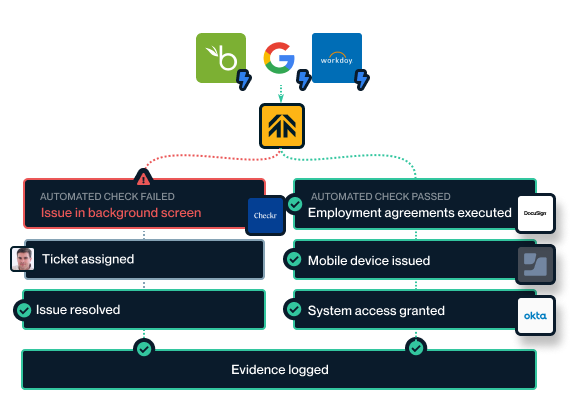
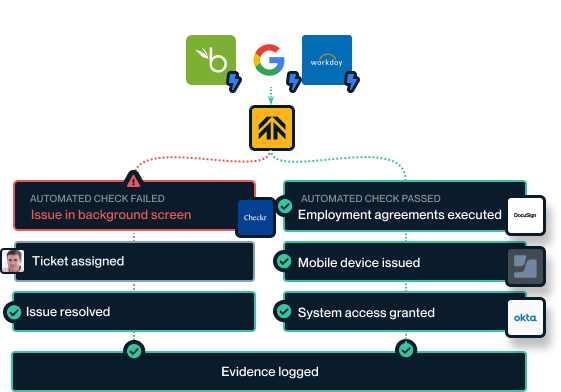
Update integrate, automate, act sections

diff --git a/src/components/comply/Automate.js b/src/components/comply/Automate.js
@@ -1,4 +1,5 @@
 import React from 'react';
+import classNames from 'classnames';
 import acrIllustration from '../../images/comply/automate-acr-illustration.png';
 import mdmIllustration from '../../images/comply/automate-mdm-illustration.png';
 import ssdIllustration from '../../images/comply/automate-ssd-illustration.png';
@@ -58,6 +59,13 @@ class Automate extends React.Component {
                 <span className={styles.circle} />
               </button>
             </div>
+
+            <div className={classNames(styles.cta, styles.desktop)}>
+              <SignupArrowButton
+                text="Get a demo and learn more"
+                product="comply"
+              />
+            </div>
           </div>
 
           <div className={styles.illustration}>
@@ -93,7 +101,7 @@ class Automate extends React.Component {
             )}
           </div>
 
-          <div className={styles.cta}>
+          <div className={classNames(styles.cta, styles.mobile)}>
             <SignupArrowButton
               text="Get a demo and learn more"
               product="comply"

diff --git a/src/components/comply/Act.js b/src/components/comply/Act.js
@@ -1,4 +1,5 @@
 import React from 'react';
+import classNames from 'classnames';
 import metricsIllustration from '../../images/comply/act-metrics-illustration.png';
 import onboardingIllustration from '../../images/comply/act-onboarding-illustration.png';
 import { Grid } from '../grid/Grid';
@@ -48,6 +49,13 @@ class Act extends React.Component {
                 <span className={styles.circle} />
               </button>
             </div>
+
+            <div className={classNames(styles.cta, styles.desktop)}>
+              <SignupArrowButton
+                text="Get a demo and learn more"
+                product="comply"
+              />
+            </div>
           </div>
 
           <div className={styles.illustration}>
@@ -68,7 +76,7 @@ class Act extends React.Component {
             )}
           </div>
 
-          <div className={styles.cta}>
+          <div className={classNames(styles.cta, styles.mobile)}>
             <SignupArrowButton
               text="Get a demo and learn more"
               product="comply"

diff --git a/src/components/comply/Integrate.js b/src/components/comply/Integrate.js
@@ -1,4 +1,5 @@
 import React from 'react';
+import classNames from 'classnames';
 import illustration from '../../images/comply/integrate-illustration.png';
 import { Grid } from '../grid/Grid';
 import SignupArrowButton from '../signup/SignupArrowButton';
@@ -18,13 +19,17 @@ export default () => (
           Continuously update your inventory of People, Devices, Assets,
           Vendors, and Data.
         </p>
+
+        <div className={classNames(styles.cta, styles.desktop)}>
+          <SignupArrowButton text="Get a demo and learn more" product="comply" />
+        </div>
       </div>
 
       <div className={styles.illustration}>
         <img src={illustration} alt="" />
       </div>
 
-      <div className={styles.cta}>
+      <div className={classNames(styles.cta, styles.mobile)}>
         <SignupArrowButton text="Get a demo and learn more" product="comply" />
       </div>
     </Grid>

diff --git a/src/components/comply/Automate.module.css b/src/components/comply/Automate.module.css
@@ -58,15 +58,24 @@
   text-align: center;
 }
 
-.illustration > img {
+.illustration img {
   max-width: 100%;
 }
 
+.illustration p {
+  padding: 0 20px;
+}
+
 .cta {
-  grid-column: 5 / span 3;
-  grid-row: 2;
   margin-top: 30px;
-  padding-left: 120px;
+}
+
+.desktop {
+  display: block;
+}
+
+.mobile {
+  display: none;
 }
 
 @media (--mobile) {
@@ -111,10 +120,22 @@
     grid-row: 2;
   }
 
+  .illustration p {
+    margin-bottom: 0;
+    padding: 0;
+  }
+
   .cta {
     grid-column: 1 / -1;
     grid-row: 3;
     margin-top: 0;
-    padding-left: 0;
+  }
+
+  .desktop {
+    display: none;
+  }
+  
+  .mobile {
+    display: block;
   }
 }

diff --git a/src/components/comply/Integrate.module.css b/src/components/comply/Integrate.module.css
@@ -27,15 +27,25 @@
   padding-top: 100px;
 }
 
-.illustration > img {
+.illustration img {
   max-width: 100%;
 }
 
+.illustration p {
+  margin-bottom: 0;
+  padding: 0 20px;
+}
+
 .cta {
-  grid-column: 1 / -1;
-  grid-row: 2;
-  /* margin-top: 26px; */
-  margin-top: -80px;
+  margin-top: 30px;
+}
+
+.desktop {
+  display: block;
+}
+
+.mobile {
+  display: none;
 }
 
 @media (--mobile) {
@@ -66,8 +76,21 @@
     padding-top: 0;
   }
 
+  .illustration p {
+    padding: 0;
+  }
+
   .cta {
+    grid-column: 1 / -1;
     grid-row: 3;
     margin-top: 0;
+  }
+
+  .desktop {
+    display: none;
+  }
+  
+  .mobile {
+    display: block;
   }
 }

diff --git a/src/components/comply/Act.module.css b/src/components/comply/Act.module.css
@@ -61,15 +61,25 @@
   text-align: center;
 }
 
-.illustration > img {
+.illustration img {
   max-width: 100%;
 }
 
+.illustration p {
+  margin-bottom: 0;
+  padding: 0 20px;
+}
+
 .cta {
-  grid-column: 1 / -1;
-  grid-row: 2;
-  margin-top: 26px;
-  /* margin-top: -80px; */
+  margin-top: 30px;
+}
+
+.desktop {
+  display: block;
+}
+
+.mobile {
+  display: none;
 }
 
 @media (--mobile) {
@@ -114,8 +124,21 @@
     grid-row: 2;
   }
 
+  .illustration p {
+    padding: 0;
+  }
+
   .cta {
+    grid-column: 1 / -1;
     grid-row: 3;
     margin-top: 0;
+  }
+
+  .desktop {
+    display: none;
+  }
+  
+  .mobile {
+    display: block;
   }
 }
